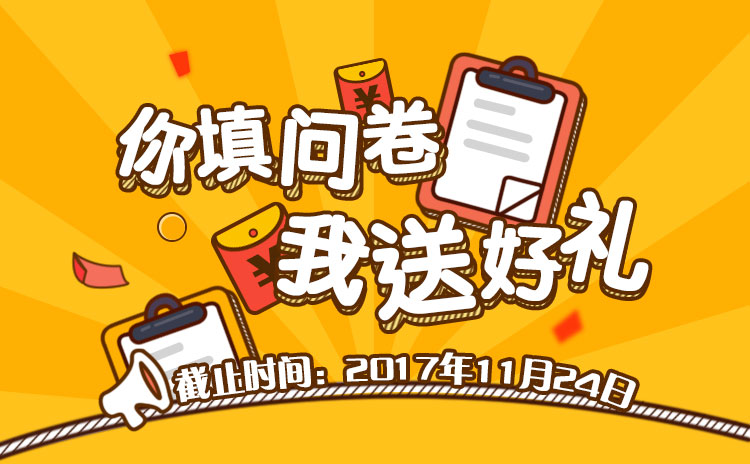
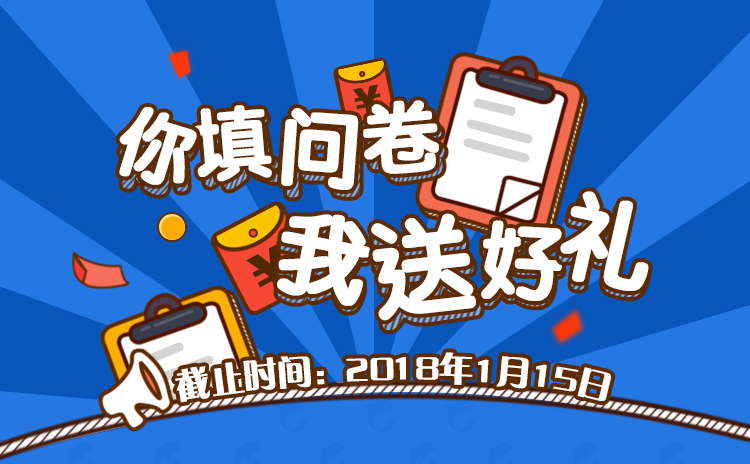
H5Web

diff --git a/H5web/xiechengQuest/index.html b/H5web/xiechengQuest/index.html
@@ -3,16 +3,19 @@
 <head>
 <meta charset="UTF-8">
 <meta name="viewport" content="width=device-width,initial-scale=1.0,user-scalable=no">
+<meta http-equiv="Pragma" content="no-cache">
+<meta http-equiv="Cache-Control" content="no-cache">
+<meta http-equiv="Expires" content="0"> 
 <title>携程旅游特价问卷调查</title>
 <link rel="stylesheet" type="text/css" href="css/style.css">
 <link rel="stylesheet" href="https://cdn.bootcss.com/bootstrap/3.3.7/css/bootstrap.min.css" integrity="sha384-BVYiiSIFeK1dGmJRAkycuHAHRg32OmUcww7on3RYdg4Va+PmSTsz/K68vbdEjh4u" crossorigin="anonymous">
 <link rel="stylesheet" type="text/css" href="css/wantUI-alert.css">
-<link rel="stylesheet" type="text/css" href="css/main.css?v=1.1">
+<link rel="stylesheet" type="text/css" href="css/main.css?v=1.33">
 </head>
 <body>
 
 <header id="quest-header" class="container">
-	<img src="images/banner.jpg">
+	<img src="images/banner.jpg?ver=1.0">
 </header>
 
 <section id="quest-body" class="container">
@@ -433,6 +436,25 @@
 			</div>
 		</div>
 	</div>
+	<div class="quest-column" data-type="text" data-idx="16" data-val="" data-require="false" messages="true">
+		<div class="quest-title">如果可以的话，能把您的联系方式留下来吗？（在活动结束后可能会收到我们寄给您的小礼物）
+		</div>
+		<div class="quest-content">
+			<div class="form-group">
+			    <input type="tel" class="form-control" id="tel" placeholder="手机" maxlength="11" data-type="tel">
+			</div>
+		</div>
+		<div class="quest-content">
+			<div class="form-group">
+			    <input type="text" class="form-control" id="name" placeholder="称呼" maxlength="50">
+			</div>
+		</div>
+		<div class="quest-content">
+			<div class="form-group">
+			    <input type="text" class="form-control" id="address" placeholder="快递收件地址" maxlength="50">
+			</div>
+		</div>
+	</div>
 	<div class="submit-column">
 		<button type="button" class="btn btn-primary" id="quest-submit">提交</button>
 	</div>
@@ -533,6 +555,6 @@
 <script type="text/javascript" src="js/wantUI-alert.js"></script>
 <script src="https://res.wx.qq.com/open/js/jweixin-1.2.0.js" type="text/javascript"></script>
 <script type="text/javascript" src="js/share.js"></script>
-<script type="text/javascript" src="js/main.js?v=1.3"></script>
+<script type="text/javascript" src="js/main.js?v=1.41"></script>
 </body>
 </html>

diff --git a/H5web/xiechengQuest/js/main.js b/H5web/xiechengQuest/js/main.js
@@ -138,16 +138,34 @@ jQuery(function($){
 		text : function(target){
 			var $val = $(target).find(":text").eq(0).val() || "";
 			if( $(target).attr("with-area") ){
-				var $tval = $(target).find("textarea").eq(0).val() || "";
-				if( !$val || !$tval ){
-					console.log("答案未填写");
-					return "";
-				}
-				return $val + ":" + $tval;
+				return checkArea(target,$val);
+			}
+			if( $(target).attr("messages") ){
+				return checkMessage(target);
 			}
 			return $val;
 		}
 
 	};
+
+	function checkArea(target,$val){
+		var $tval = $(target).find("textarea").eq(0).val() || "";
+		if( !$val || !$tval ){
+			console.log("答案未填写");
+			return "";
+		}
+		return $val + ":" + $tval;
+	}
+
+	function checkMessage(target){
+		var $eles = $(target).find("input"),
+			$val = "";
+
+		$eles.each(function(){
+			$val += $(this).val()+"-";
+		});
+
+		return $val;
+	}
 
 });

diff --git a/H5web/xiechengQuest/css/main.css b/H5web/xiechengQuest/css/main.css
@@ -6,7 +6,7 @@ body{
 #quest-header{
 	position: relative;
 	height: auto;
-	background: #FFC21C;
+	background: #2577e3;
 	padding: 0px;
 }
 
@@ -29,10 +29,10 @@ body{
 #quest-body{
 	position: relative;
 	height: auto;
-	background: url("../images/bg.jpg") repeat-y;
-	background-size: cover;
+	background: url("../images/bg.jpg?ver=1.01") repeat-y;
+	background-size: contain;
 	font-size: 1rem;
-	color: #602e06;
+	color: #fff;
 }
 
 .quest-column{
